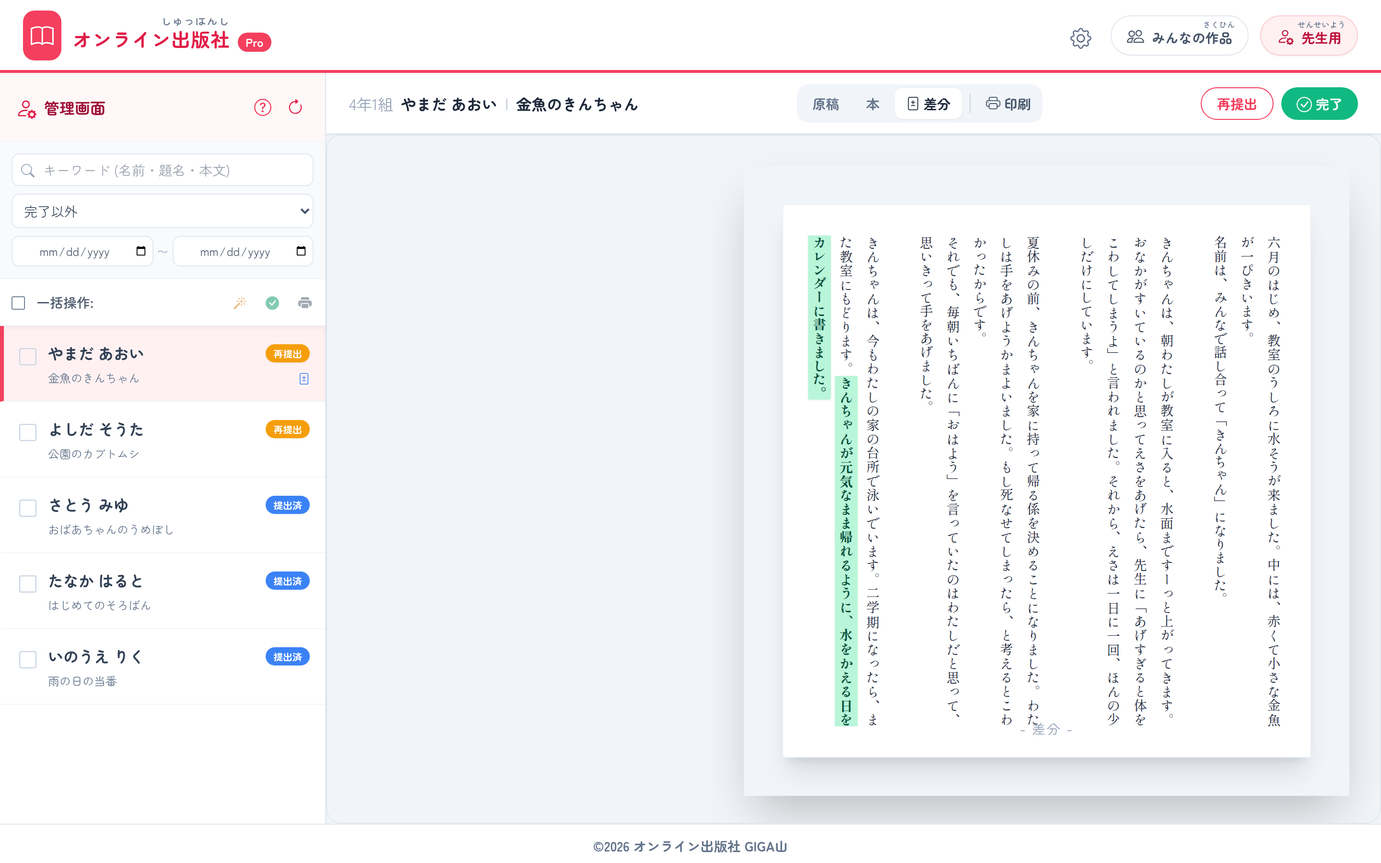
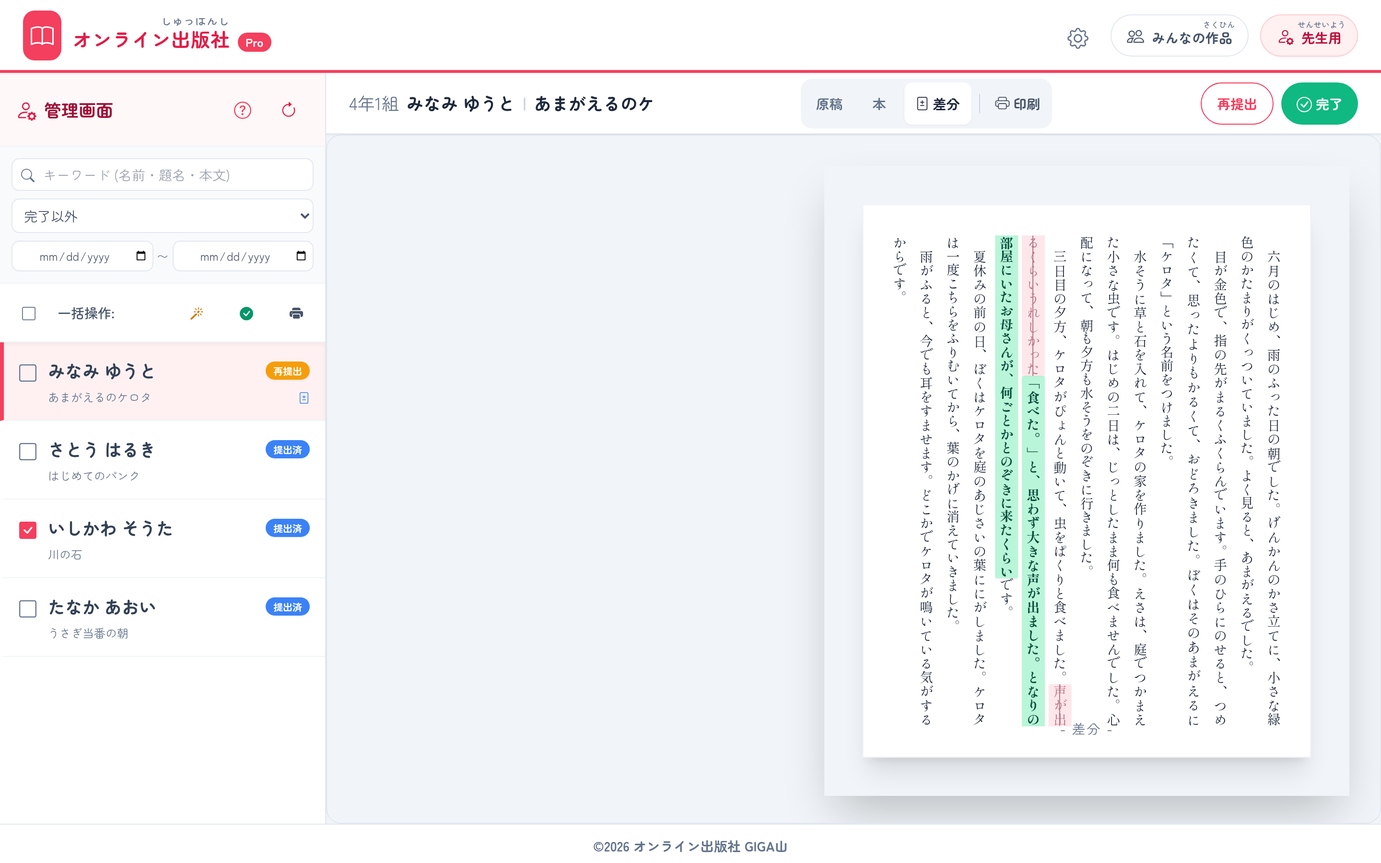
docs(note): note の紹介記事と画面写真を現在の実装に合わせて撮り直す
前回そろえたあとに画面の作りが変わっていた（GIGA Standard v4 対応で
文字サイズ・タップ目標・PWAシェルを入れ替えた）ため、記事と画像を
すべて実機の操作で撮り直し、本文も現在の実装に合わせて書き直した。

■ 画像（24点、すべて実際に操作して撮影。合成・加工なし）
- 児童が書いて提出 → 先生が2か所に赤入れ → 再提出で返却 → 児童が一文を
  書き直し → 先生が差分を見て完了 → 作品だなで読み合う、を一本で通した
- 前回入っていた 25 枚目（オフライン画面）は、通信を切って開き直しても
  保存済みの画面がそのまま出るため、同じ絵になるので落とした

■ 本文
- 差分表示、修正完了、4つのステータス、削除のしかたを追記
- 数字はすべてコードで裏取り（自動保存20秒、挿絵は幅800pxまで縮小、
  切り抜き8種類、ショートカット11個、貼るファイルは code.gs 446行と
  index.html 2,325行 ほか）。出どころは docs/note/README.md に一覧化
- 文体ルールは機械確認済み（太字0、表0、→／：▲▶ すべて0、約7,500字）

■ 入稿メモ
- 撮り直しの手順に、今回踏んだ落とし穴を追記（--no-save はまとめて実行する、
  書体を手もとに置かないと縦書きで文字が重なる、モーダルの裏の原稿用紙に
  当たる、ふりがな入り見出しは素朴な一致では当たらない ほか）

アプリのコード（index.html / code.gs / pwa/）には手を入れていない。

Claude-Session: https://claude.ai/code/session_01CP5rr8CaEPFNJJsQuoL7UZ

diff --git a/docs/note/online-publisher-pro-note-article.md b/docs/note/online-publisher-pro-note-article.md
@@ -1,249 +1,254 @@
-# 教室で使えるかもしれないもの作り #◯ 「書いて、出して、返ってきて、おしまい」にしない。クラスの作文が一冊の本になるアプリ「オンライン出版社 Pro」
+# 教室で使えるかもしれないもの作り #◯ 「赤ペンの束を持ち帰る夜」をなくす。クラスの作文が一冊の本になるアプリ「オンライン出版社 Pro」
 
 ## 🏫 はじめに
 
-作文の時間、こんなふうになっていませんか。
+作文の時間のあと、こんなことになっていませんか。
 
-原稿用紙を配って、書かせて、集める。放課後に赤ペンで直して、次の日に返す。直したものをまた集める。ようやく全員ぶんが終わったころには、子どもたちは次の単元に進んでいて、あの作文がどうなったのかを覚えているのは先生だけ。書いたものは先生しか読んでいません。
+原稿用紙を集めて、放課後に赤ペンで直す。次の日に返して、直したものをまた集める。清書用の紙をもう一度配る。ようやく全員ぶんが終わったころには、子どもたちの気持ちは次の単元に移っていて、あの作文がどうなったのかを覚えているのは先生だけ。しかも書いたものを読んだのは、先生ひとりです。
 
-清書もむずかしいところです。せっかくいい文章が書けても、マス目に写しなおすだけで一時間が消えていきます。挿絵を描かせたいけれど、紙を貼るとかさばるし、印刷にも回せません。
+清書もむずかしいところです。せっかくいい文章が書けても、マス目に写しなおすだけで一時間が消えていきます。絵を描かせたいけれど、貼るとかさばりますし、印刷にも回せません。
 
-「オンライン出版社 Pro」は、そのあたりをまるごと引き受けるつもりで作ったWebアプリです。子どもは端末で書き、画面の中の縦書き原稿用紙にそのまま組まれていきます。先生はその原稿用紙の上を指でなぞって赤を入れ、子どもはその赤を読んで直します。完成した作品は「みんなの作品だな」に本として並び、クラスのだれもが読んで感想を送れます。
+「オンライン出版社 Pro」は、そのあたりをまるごと引き受けるつもりで作ったWebアプリです。子どもたちは端末で書き、打った先から画面の中の縦書き原稿用紙に組まれていきます。先生はその原稿用紙の上を指でなぞって赤を入れ、子どもたちはその赤を読んで直します。仕上がった作品は「みんなの作品だな」に一冊の本として並び、クラスのだれもが読んで感想を送れます。
 
 配布はGitHubからです。
 
 https://github.com/GIGAyama/Online-Publisher-pro
 
-学校のGoogleアカウントがあれば動きます。サーバーの契約もいりませんし、ビルドの作業もありません。2つのファイルをコピーして貼るだけです。くわしくは後半の導入手順に書きました。
+学校のGoogleアカウントがあれば動きます。サーバーを借りる必要も、書き出しの作業もありません。2つのファイルをコピーして貼るだけです。くわしくは後半の導入手順に書きました。
 
-![ホーム画面](images/01-student-home.png)
+![児童モードの初期画面](images/01-student-home.png)
 
 児童モードの初期画面。左が書くところ、右が原稿用紙のプレビューです。
 
 ## 📱 このアプリでできること
 
-画面は3つのモードでできています。子どもが書く「児童モード」、読み合う「みんなの作品だな」、先生が添削する「先生用」。上のバーの色が、オレンジ、緑、赤と変わるので、いまどこにいるかがひと目で分かります。児童モードと作品だなはログインなしで使えて、先生用だけパスワードがかかります。
+画面は3つのモードでできています。子どもたちが書く「児童モード」、読み合う「みんなの作品だな」、先生が添削する「先生用」。上のバーの色がオレンジ、緑、赤と変わるので、いまどこにいるのかがひと目で分かります。児童モードと作品だなはログインなしで使えて、先生用だけパスワードがかかります。
 
-まずは書くところから。だいめい、がくねん・くみ、なまえ、そして本文。打った先から右側の原稿用紙に流れこんでいきます。マス目に文字が入っていくようすが見えるので、あと何行で終わるのかが子どもにも分かります。入力欄の右下には改行を除いた文字数が出ます。四百字詰めであと何マス、という話が、そのままできます。
+まずは書くところから。だいめい、がくねん・くみ、なまえ、そして本文。打った先から右側の原稿用紙に流れこんでいきます。マス目に文字が入っていくようすが見えるので、あと何行で終わるのかが子どもたちにも分かります。入力欄の右下には、改行を除いた文字数が出ます。四百字詰めであと何マス、という話がそのままできます。
 
 ![本文を書いたところ](images/02-student-write.png)
 
-打った文字が右の原稿用紙にそのまま組まれていきます。この時点で356文字です。
+打った文字が右の原稿用紙にそのまま組まれていきます。この時点で400文字です。
 
-原稿用紙は20文字×20行と15文字×16行の2種類から選べます。高学年と低学年で使い分けてください。行の頭に句読点が来てしまったときの処理も、次の行に送る「追い出し」と、マスの外に小さく出す「ぶら下がり」から選べます。ここは先生の指導のしかたに合わせるところなので、決め打ちにしませんでした。設定は端末に残るので、一度選べば次からそのままです。
+原稿用紙は20文字20行と、15文字16行の2種類から選べます。高学年と低学年で使い分けてください。行の頭に句読点が来てしまったときの処理も、次の行に送る「追い出し」と、マスの外に小さく出す「ぶら下がり」から選べます。ここは先生の指導のしかたに合わせるところなので、決め打ちにしませんでした。選んだ設定はその端末の中に残るので、一度選べば次からそのままです。
 
 ![用紙の設定](images/03-paper-settings.png)
 
 歯車のボタンから開く用紙の設定です。
 
-保存ボタンはありません。作らなかった、というほうが正確です。子どもが「保存」を押し忘れて一時間ぶんが消えた、という事故をなくしたかったからです。入力が20秒止まると自動で保存され、タブを閉じたり別のアプリに切り替えたりした瞬間にも保存されます。いまどの状態なのかは本文の下に出ます。編集中、保存中、クラウド保存済。通信が切れているときは端末の中にいったん置いておいて、つながった時点で自動で送ります。
+保存ボタンはありません。作らなかった、というほうが正確です。子どもが押し忘れて一時間ぶんが消えた、という事故をなくしたかったからです。入力が20秒止まると自動で保存され、タブを閉じたり別のアプリに切り替えたりした瞬間にも保存されます。いまどの状態なのかは本文の下に出ます。編集中、保存中、クラウド保存済、そして通信が切れているときと失敗したとき。切れているあいだは端末の中にいったん置いておいて、つながった時点で自動で送ります。
 
-![自動保存の表示](images/07-autosave.png)
+Chromebookは、ほかのタブを開くと使っていないタブを黙って捨ててしまうことがあります。捨てられる直前にも書きかけを退避させているので、そこで消えることもありません。
 
-左下に「クラウド保存済」と出ています。子どもは保存を意識しなくてかまいません。
+![クラウド保存済の表示](images/07-autosave.png)
 
-挿絵も入れられます。撮った写真や描いた絵を選ぶと、端末の中で幅800ピクセルまで小さくしてから送るので、通信が細い教室でも詰まりにくいはずです。何ページ目に置くか、大きさは30%から150%のどのくらいか、切り抜きの形は8種類のどれか。まる、ほしがた、ふわふわ。この形えらびは、正直なところ機能としては要らないものです。それでも入れたのは、自分の作品の見た目を自分で決める時間そのものが、書くことへの気もちを上げてくれると思ったからです。
+本文の下に出る保存の状態。ここが「クラウド保存済」なら、もう手もとを離れています。
+
+挿絵も入れられます。写真でも、お絵かきソフトで描いた絵でもかまいません。置きたいページの番号、大きさ、切り抜きの形を指定します。大きさは30パーセントから150パーセントまで、形はしかく、かどまる、まる、ふわふわ、ひしがた、ほしがた、はっかくけい、チケットの8種類です。送る前に幅800ピクセルまで自動で縮めるので、写真をそのまま選んでも重くなりません。
 
 ![挿絵の設定](images/04-illustration.png)
 
-配置ページ、大きさ、切り抜きの形を挿絵ごとに決められます。
+挿絵の置きかたを決めるところ。形を選ぶと、プレビューにすぐ反映されます。
 
-プレビューには原稿用紙のほかに「本」があります。1ページ目が表紙になり、題名と学年組と名前が縦書きで入ります。2ページ目からが本文で、指定したページの上に挿絵が並びます。挿絵を置いたページは、本文の1行の文字数が自動で少なくなって、絵の下におさまるように組みなおされます。
+プレビューは原稿用紙と本の2種類です。本モードにすると、1ページ目が表紙になり、題名と学年と名前が縦に組まれます。挿絵を置いたページは、絵の下に文章が収まるように1行の文字数が自動で減ります。マス目の中では見えてこなかった「作品らしさ」が、ここで急に立ち上がってきます。
 
-![本のプレビュー](images/05-book-preview.png)
+![本モードのプレビュー](images/05-book-preview.png)
 
-右が表紙、左が挿絵の入った2ページ目です。挿絵が出るのは本モードだけです。
+表紙と、挿絵の入った2ページ目。
 
-印刷はA4横です。原稿用紙を表示しているときは、まん中に綴じ代のある見開きの原稿用紙として出ます。題名とページ番号も入ります。本を表示しているときは、見開き2ページを1枚に並べて出します。学級通信に載せるにも、教室に掲示するにも、そのまま使えます。
+紙で残したいときは印刷です。原稿用紙はA4横に見開きで、まん中に綴じ代が入り、そこに題名とページ番号が縦に入ります。二つ折りにすればそのまま冊子になります。ブラウザによってはマス目や赤線を「背景」とみなして刷ってくれないので、色を必ず刷るように指定してあります。
 
-![印刷の紙面](images/06-print-a4.png)
+![A4横の印刷](images/06-print-a4.png)
 
-原稿用紙表示のまま印刷したところ。中央の帯に題名とページ番号が入ります。
+印刷の紙面。綴じ代に題名とページ番号が入ります。
 
-書き終えたら「提出する」を押します。提出した作品は編集できなくなります。かわりにボタンが「コピーして新しく書く」に変わるので、挿絵ごと複製して書き直すことはできます。前に書いたものを消さずに、二作目として書ける形にしました。
+書き上がったら「提出する」を押します。提出した作品は、先生が返すまで編集できません。書き直したくなったら「コピーして新しく書く」で、元の作品を残したまま新しく書きはじめられます。
 
 ![提出したあと](images/08-submitted.png)
 
-提出すると鍵がかかり、ボタンが「コピーして新しく書く」に変わります。
+提出すると入力欄が閉じ、編集できないことがはっきり分かるようになります。
+
+作品は、下書き、提出済、再提出、完了の4つのどれかの状態にあります。子どもたちが直せるのは下書きと再提出のときだけで、提出済と完了のあいだは手が入りません。完了にできるのは先生だけです。子どもが自分で「これでおしまい」と決められない作りにしたのは、書いたものを先生が必ず一度は読む、という流れを崩したくなかったからです。
 
 ## ✍ 原稿用紙の上に、そのまま赤を入れる
 
 ここがこのアプリでいちばん時間をかけたところです。
 
-先生用のボタンからパスワードを入れると、提出物の一覧が出ます。初回のパスワードは admin です。かならず変えてください。
+先生用のボタンを押すと、パスワードを聞かれます。最初のパスワードは admin で、あとから変えられます。Googleへのログインは要りません。共用のパソコンでも、ここだけ通れば使えます。
 
-![先生用のログイン](images/09-teacher-login.png)
+![先生用ログイン](images/09-teacher-login.png)
 
-先生用だけパスワードがかかります。児童モードとギャラリーはログインなしです。
+先生用ログイン。子どもたちの端末からは、この先には入れません。
 
-一覧には下書き以外の作品が、更新の新しい順に並びます。名前と題名とステータスが見えて、キーワードでも、提出済や再提出といった状態でも、更新日の範囲でも絞りこめます。三十人ぶんが並んでも、まだ見ていない子から順に開いていけます。
+ログインすると、提出物の一覧と、選んだ作品の原稿用紙が並びます。左の一覧には名前と題名と状態が出ます。提出済が青、再提出がオレンジ、完了が緑です。名前でも題名でも本文でも検索できますし、完了以外だけを出す、提出済だけを出すといった絞りこみも5種類から選べます。日づけでも絞れるので、「先週の分だけ」という見かたもできます。
 
-![提出一覧](images/10-teacher-list.png)
+![提出一覧と添削画面](images/10-teacher-list.png)
 
-左が一覧、右が添削画面です。名前・題名・本文のどれでも検索できます。
+左が提出一覧、右が選んだ作品の原稿用紙です。
 
-添削は、原稿用紙の上を直接ドラッグします。指摘したい文字をなぞって指を離すと、コメントを書く欄が開きます。タブレットのときは、文字を長押ししてからなぞってください。短くなぞるとスクロールになります。書いて「追加する」を押すと、その範囲に赤い線が付きます。
+赤を入れるには、原稿用紙の文字をなぞります。パソコンならマウスで、タブレットなら長押ししてから指を滑らせます。手を離すとコメントの入力欄が出るので、そこに書きます。
 
-![コメントを書く](images/11-correction-input.png)
+![添削コメントの入力](images/11-correction-input.png)
 
-なぞって離すと、この欄が開きます。
+なぞった範囲にコメントを書きます。
 
-![赤線の入った原稿](images/12-correction-done.png)
+コメントを追加すると、その範囲に赤い線が引かれます。これは先生の画面だけの話ではありません。同じ場所が、子どもの画面の原稿用紙にも出ます。紙を返して、返ってきて、という往復がなくなります。
 
-「すーっと」と「思いきって手をあげました」の2か所に赤が入りました。
+![赤線が入った原稿](images/12-correction-done.png)
 
-紙の赤ペンとちがうのは、子どもの側でこの赤が読めることです。子どもが赤い印の付いた文字をタップすると、先生のコメントが開きます。読んで直したら「修正完了」を押します。すると、その赤線は子どもの画面から消えます。先生の画面には緑色で残るので、どのコメントが届いたのかが分かります。
+2か所に赤が入りました。ほめるところに赤を入れてもかまいません。
 
-![子どもの画面に届いたコメント](images/18-student-comment.png)
+子どもたちは、赤いところを押すと先生のコメントを読めます。直し終わったら「修正完了」を押すと、その赤線が消えます。どこを直せばいいのかが自分で分かり、直したという手ごたえも残ります。消しゴムで消した跡が残らないのは、少し寂しい気もしますが、書き直しのハードルはずいぶん下がるはずです。
 
-赤い印をタップすると、先生のコメントが開きます。
+![子どもの画面に届いた先生のコメント](images/18-student-comment.png)
 
-赤入れそのものを手伝わせることもできます。AI添削のボタンを押すと、GoogleのAI（Gemini）が誤字脱字や表現の改善点、それに良かったところを、小学生に伝わる言葉で挙げてきます。指摘は本文の該当する場所に、頭に【AI】と付いた赤線として入ります。一覧でチェックを入れれば、選んだ作品をまとめて処理することもできます。
+子どもの画面。赤いところを押すと、先生のコメントが出ます。
 
-これは下書きを作らせているだけだと思ってください。AIの指摘をそのまま子どもに返すつもりはありませんでした。要らないものはクリックして消せますし、言い回しを先生の言葉に書き換えることもできます。三十人ぶんの誤字探しをAIに任せて、先生は「この子に何を伝えるか」に時間を使う。そういう分担のつもりで付けました。使うにはGeminiのキーを登録する必要があります。登録しないかぎりAIには一切つながりません。
+直したあとに先生がいちばん知りたいのは、どこが変わったのかです。「差分」に切り替えると、書き足したところが緑、消したところがうすい赤で出ます。全部を読み直さなくても、直したところだけを見て返事ができます。
 
-![まとめてAI添削](images/13-ai-bulk.png)
+![差分表示](images/14-diff.png)
 
-チェックを入れた作品をまとめて処理できます。件数が多いと数分かかります。
+書き足したところが緑で出ます。長い作文でも、書き出しから終わりまで全部が読めます。
 
-再提出で返した作品が直って戻ってきたとき、どこが変わったのかを探すのはけっこうな手間です。そのための「差分」があります。前回添削したときの本文といまの本文をくらべて、書き足されたところを緑、消えたところを赤の取り消し線で出します。全文を読みなおさなくても、直したところだけが目に飛びこんできます。
+AIに下読みをさせることもできます。GoogleのGeminiに、誤字や表現の直しどころを出させる機能です。使うときだけAIのキーを入れる形にしてあり、入れなければAIはいっさい動きません。出てきた提案は先生の赤と同じ形で原稿用紙に並ぶので、要らないものはその場で消せます。まとめて何人ぶんも流すこともできますが、一度に20件を超えると処理が途中で止まりやすいので、10件ずつに分けるのが安全です。
 
-![差分の表示](images/14-diff.png)
+![まとめてAI添削の確認](images/13-ai-bulk.png)
 
-緑のところが、子どもが書き足した文です。
+チェックを付けた作品をまとめてAIに読ませるところ。実行する前に確認が出ます。
 
-一覧と添削画面のあいだを行ったり来たりする作業なので、キーボードだけでも進められるようにしました。上下キーで子どもを切り替え、Vで表示を切り替え、Cで完了、Rで再提出。はてなキーを押すと、いま使える11個のキーが一覧で出ます。
+一覧と原稿用紙を行ったり来たりするので、キーボードのショートカットも入れました。上下で子どもを切り替え、Cで完了、Rで再提出、Vで表示の切り替え。ぜんぶで11個あります。はてなマークのキーで一覧が出ます。
 
 ![ショートカット一覧](images/15-shortcuts.png)
 
-はてなキーで開きます。入力欄にカーソルがあるときは動きません。
+先生用の画面で使えるショートカットです。
 
 ## 📚 書いた作文が、みんなで読める一冊の本になる
 
-提出済と完了になった作品は、「みんなの作品だな」に本の背表紙のように並びます。感想が付いている作品には、右上に件数のバッジが出ます。
+提出された作品と、完了になった作品は「みんなの作品だな」に並びます。ログインは要りません。背表紙のように立った本が、教室の学級文庫のように並びます。
 
 ![みんなの作品だな](images/19-gallery.png)
 
-提出済と完了の作品が並びます。感想の付いた本にはバッジが出ます。
+提出された作品が本として並びます。
 
-一冊選ぶと、画面いっぱいのリーダーが開きます。縦書きなので右から左へ、矢印キーか画面の矢印、タブレットならスワイプでめくっていきます。挿絵を置いたページでは、絵と文章がいっしょに出ます。書いた本人にとっては、自分の書いたものがちゃんと本の形をしているという、それだけのことがうれしいのではないかと思っています。
+一冊を選ぶと、画面いっぱいのリーダーが開きます。左右のキーでも、指のスワイプでもページがめくれます。縦書きなので、右から左へ。表紙をめくると本文がはじまります。
 
-![ブックリーダー](images/20-reader.png)
+![全画面のブックリーダー](images/20-reader.png)
 
-全画面のリーダー。右から左へめくります。
+全画面のリーダー。右にコメント欄があります。
 
-読んだら感想を送れます。名前と一言を書いて送信するだけです。名前を空けたまま送ると「名無し」になります。書いた子には、先生以外のだれかが読んでくれたという事実が残ります。作文を「先生に出すもの」から「だれかに読んでもらうもの」に変えたかった、というのがこの画面を作った理由です。
+読んだら、その場で感想を送れます。名前を書いて一言。作品には届いた感想の数がバッジで出るので、自分の作品に誰かが何か書いてくれたことが、すぐに分かります。
 
-![感想を送る](images/21-reader-comment.png)
+書いたものに読み手ができる、というのがこの機能の全部です。先生ひとりが読んで返すのと、クラス全員が読めるのとでは、書くときの構えが変わってくるのではないかと思っています。
 
-送った感想はすぐに一覧に出ます。
+![感想を送ったあと](images/21-reader-comment.png)
 
-なお、感想を消す機能はアプリの中にありません。困った投稿があったときは、あとで説明するスプレッドシートの行を消してください。むやみに消せる機能を子どもの画面に置きたくなかったので、こうしています。
+感想を送ると、すぐに右側に並びます。
 
-端末を選ばないのも大事にしたところです。Chromebookでも、タブレットでも、家のスマートフォンでも、画面の大きさに合わせて形が変わります。小さい画面では「かく」と「プレビュー」がタブに分かれて、それぞれ全画面で使えます。
+スマートフォンやタブレットの縦画面でも同じことができます。左右が並ばないぶん、いちばん上の「かく」と「プレビュー」で切り替えて、それぞれを全画面で使います。家に持ち帰った端末でも、続きが書けます。
 
-![スマートフォンで書く](images/22-mobile-write.png)
+![スマートフォンのかく画面](images/22-mobile-write.png)
 
-小さい画面では「かく」と「プレビュー」を切り替えて使います。
+スマートフォンの「かく」。
 
 ![スマートフォンのプレビュー](images/23-mobile-preview.png)
 
-プレビュー側もこのとおり全画面です。
+同じ端末の「プレビュー」。切り替えて使います。
 
 ## ✨ 導入のメリット
 
 三つのいいことが期待できます。
 
-一つ目は、集めて配ってをくり返す時間がなくなることです。子どもが提出したら先生の一覧にすぐ並び、先生が完了にしたら子どもの画面にすぐ届きます。放課後に三十枚の原稿用紙をそろえて、翌朝また配る、という往復がまるごとなくなります。紙が一枚だけ行方不明になって心当たりを探す、あの時間もです。
+一つ目は、赤ペンを持ち帰る夜が減ることです。丸付けそのものが消えるわけではありませんが、集める、配る、また集める、という往復がなくなります。直したところが緑で出るので、二度目からは全文を読み直さずに済みます。空いた時間は、書けずに止まっている子のところへ行く時間にできます。
 
-二つ目は、赤ペンを入れる場所が変わることです。誤字脱字の指摘をAIに下書きさせておけば、先生が向き合うのは「この子はここで何を言いたかったのか」という一点になります。差分表示のおかげで、直ったところを探す手間もかかりません。同じ三十分でも、そこで書ける言葉の中身が変わってくると思います。
+二つ目は、清書に使っていた一時間が、書く時間になることです。マス目に写しなおす作業は、字をていねいに書く練習にはなりますが、文章を良くする時間ではありません。打ち直せば原稿用紙のかたちになるので、その一時間を、もう一度読み返して直す時間に回せます。
 
-三つ目は、書いたものに読み手ができることです。作品だなに並んで、だれかが感想を送ってくれる。それは、先生が百回「上手に書けたね」と言うのとは別の種類の手ごたえだと思います。読まれると分かっていることが次の一枚に向かう力になる、というのは、大人も子どもも同じではないでしょうか。
+三つ目は、書いたものに読み手ができることです。提出した作品はクラスの本だなに並び、だれもが読んで感想を送れます。だれかに読まれると分かっているときの文章は、先生だけに出す文章とは変わってくるのではないかと思います。少なくとも、そうなればいいと思って作りました。
 
 ## 🛠 【管理者向け】導入手順
 
-このアプリはGoogle Apps Scriptの上で動きます。学校のGoogle Workspaceアカウントがあれば、それだけで足ります。ビルドの作業はありません。
+用意するものは、学校のGoogleアカウントがひとつだけです。サーバーの契約も、月々の費用もかかりません。
 
-データの置き場所は、初回に開いたときに自動でできます。作文と感想はスプレッドシート、挿絵の画像はGoogleドライブのフォルダに入ります。どちらもデプロイした先生のマイドライブの中です。手で消してしまっても、次に開いたときに作り直されます。
-
-導入の手順です。
-
-1. GitHubのリポジトリから `code.gs` と `index.html` を開きます。
-2. Google Apps Script で新しいプロジェクトを作ります。
-3. 最初からある「コード.gs」に、`code.gs` の中身をまるごと貼ります。
-4. 左の「＋」からHTMLファイルを作り、名前を `index` にします。そこに `index.html` の中身を貼ります。
-5. 右上の「デプロイ」から「新しいデプロイ」を選び、種類を「ウェブアプリ」にします。実行するユーザーは自分、アクセスできるユーザーは学校の方針に合わせて選びます。
-6. 初回は承認の警告が出ます。「詳細を表示」から進んで許可してください。
-7. 発行されたURLを開き、右上の「先生用」からパスワード `admin` でログインします。
-8. 歯車のボタンを開いて、パスワードを必ず変えます。AI添削を使うなら、ここでGeminiのキーも登録します。
+1. Google Apps Script のサイトを開き、新しいプロジェクトを作ります。
+2. 最初からある「コード.gs」の中身を全部消して、リポジトリの `code.gs` を貼りつけます。
+3. 左の「＋」からHTMLファイルを追加し、名前を index にして、リポジトリの `index.html` を貼りつけます。
+4. 右上の「デプロイ」から「新しいデプロイ」を選び、種類を「ウェブアプリ」にします。
+5. 実行するユーザーを自分にして、アクセスできるユーザーを「全員」または「Googleアカウントを持つ全員」にします。学校の方針に合わせてください。
+6. 初回だけ「このアプリは確認されていません」という警告が出ます。詳細を表示から、自分のアプリなので許可します。
+7. 発行されたURLを開いて、画面が出ることを確かめます。
+8. 「先生用」を押し、admin でログインします。
+9. 歯車のボタンからシステム設定を開き、パスワードを必ず変えます。AI添削を使うなら、ここにAIのキーも入れます。
 
 ![システム設定](images/16-teacher-settings.png)
 
-先生モードで歯車を押すと開きます。この画面は児童モードには出ません。
+先生用の歯車から開くシステム設定。パスワードの変更とAIのキーはここです。
 
-情報担当の先生に確認されることを、先に書いておきます。
+情報担当の先生に聞かれることを、先に書いておきます。
 
-校内のフィルタリングでは、次のアドレスを通す必要があります。画面の見た目と文字の表示に使っているものです。
+校内のフィルタリングで、次のアドレスを通してください。ふさがれていると画面が真っ白になります。撮影のためにこのアプリを動かした環境でも、ここがふさがれていて表示できませんでした。
 
-- script.google.com（アプリ本体）
-- cdn.tailwindcss.com、unpkg.com、cdn.jsdelivr.net、cdnjs.cloudflare.com（画面を組み立てる部品）
-- fonts.googleapis.com、fonts.gstatic.com（丸ゴシックと明朝の書体）
-- lh3.googleusercontent.com（挿絵の表示）
-- generativelanguage.googleapis.com（AI添削を使うときだけ）
+- script.google.com
+- cdn.tailwindcss.com
+- unpkg.com
+- cdn.jsdelivr.net
+- cdnjs.cloudflare.com
+- fonts.googleapis.com
+- fonts.gstatic.com
+- lh3.googleusercontent.com
+- generativelanguage.googleapis.com （AI添削を使うときだけ）
 
-個人情報については、次の3つを押さえておいてください。
+データの置き場所は、手順4で「実行するユーザー」にしたアカウントのマイドライブです。作文はスプレッドシートに、挿絵の画像はドライブのフォルダに入ります。どちらも最初に開いたときに自動で作られるので、事前の準備は要りません。挿絵のフォルダは、アプリの中で画像を表示するために「リンクを知っている人は見られる」設定になります。顔が写った写真を挿絵にするかどうかは、ここを踏まえて決めてください。
 
-まず、児童モードにログインはありません。「開く」で出る一覧には、そのアプリに入っている全員ぶんの作品が並びます。ほかの子の作品を開くこともできます。同じクラスや学年の中で使うことを前提にした作りなので、学年をまたいで一つのアプリを共有するのは避けてください。
+名前を書く欄があります。学級の中だけで使うなら、出席番号や下の名前だけにするという運用もできます。児童モードにログインはないので、「開く」の一覧にはそのアプリに入っている全員の作品が並びます。同じ学級や学年で使うことを前提にした作りです。
 
-次に、挿絵の画像を入れるドライブのフォルダは「リンクを知っている全員が閲覧可」になります。画面に画像を出すためにこうしています。顔の写った写真をアップロードさせるかどうかは、この点をふまえて決めてください。
+作品を消すボタンは、アプリの中にあえて置いていません。子どもが押しまちがえて一時間ぶんを消してしまうことのほうが、こわいと考えたからです。どうしても消したいときは、データが入っているスプレッドシートを開いて、その行の「削除日時」の欄に日づけを入れます。それだけでアプリの画面には出なくなり、中身は残ります。
 
-最後に、先生用のパスワードはGoogle Apps Scriptのプロジェクト設定の中に、そのままの文字で入っています。ログインを忘れたときはそこで確認できますが、児童の目に触れる場所で開かないでください。
+共用の端末で使うときは、用紙の設定と書きかけの下書きがその端末の中に残ることを覚えておいてください。次に使う子の画面に前の子の書きかけが出ることがあります。使いはじめに「新規」を押す、と決めておけば消えます。
 
-なお、パスワードの変更、キーの登録、AI添削、先生用の一覧の取り出しは、いずれもサーバー側でパスワードを確かめてから動きます。子どもの画面からこれらを実行することはできません。
+1クラス40人が同時に使うぶんには問題ありません。提出が一斉に集中すると数秒待つことがありますが、データが壊れることはなく、もう一度押せば保存されます。学年3クラスが同時となると、提出の時間をずらすことをおすすめします。
 
-作品を消す機能はアプリの中にありません。消したい作品があるときは、スプレッドシート「作文データ」のその行の「削除日時」の列に日付を入れてください。どの画面にも出てこなくなります。
+アプリらしく使いたいときのために、ホーム画面に置くための入り口も同梱しています。最初に一度だけURLを入れると、次からはアイコンから開けます。子どもたちに長いURLを毎回入力させずに済みます。
 
-もう一つ、アプリのように起動したい場合の話です。リポジトリの `pwa` フォルダを GitHub Pages などに置くと、アプリのURLを包んで全画面で開くだけの入口ができます。初回にアプリのURLを一度入れると、次からはアイコンから直接起動できます。先生が `?app=` の形でURLを付けたリンクを配れば、子どもの入力もいりません。
+![ホーム画面に置くための入り口](images/24-pwa.png)
 
-![PWAシェル](images/24-pwa.png)
-
-最初の一回だけアプリのURLを入れる画面です。
+最初の一回だけURLを入れる画面。あとはアイコンから開きます。
 
 ## 📖 【利用者向け】使い方のガイド
 
-子どもに配る手順です。
+子どもたちに配る手順です。
 
 1. 先生から教えてもらったURLを開きます。
 2. 「だいめい」「がくねん・くみ」「なまえ」を入れます。
-3. 大きな枠に本文を書きます。右の原稿用紙にすぐ出てきます。
-4. 絵を入れるときは「挿絵」を開き、「画像を選択して追加」から選びます。何ページ目に置くか、大きさ、形を決めます。
-5. 右上の「本」を押すと、本の形で見られます。
+3. 大きな欄に本文を書きます。右の原稿用紙に、打った文字がそのまま出ます。
+4. 絵を入れるときは「挿絵」を押して、画像を選び、置きたいページの番号を入れます。
+5. 保存は押さなくてかまいません。手が止まると自動で保存されます。
 6. 書けたら「提出する」を押します。
-7. 先生が赤を入れて返してくれたら、赤い印の文字をタップしてコメントを読みます。直したら「修正完了」を押します。
-8. 読み合うときは、上の「みんなの作品」を押して、読みたい本を選びます。読んだら感想を送りましょう。
+7. 先生から赤が入ったら、赤いところを押してコメントを読みます。
+8. 直したら「修正完了」を押して、赤線を消します。
+9. ほかの人の作品は「みんなの作品」から読めます。感想も送れます。
 
-![作品を開く](images/17-open-modal.png)
+続きを書くときは「開く」を押して、自分の作品を選びます。前に書いたものがそのまま出てきます。
 
-「開く」を押すと、保存されている作品から選べます。自分の名前を目印に探してください。
+![保存した作品を開く](images/17-open-modal.png)
+
+「開く」の一覧。状態と、最後に保存した時刻が出ます。
 
 先生の手順です。
 
-1. 右上の「先生用」からパスワードを入れてログインします。
-2. 左の一覧から作品を選びます。まだ見ていない子は、絞りこみを「提出済」にすると探しやすくなります。
-3. 直したいところを原稿用紙の上でドラッグして、コメントを書き、「追加する」を押します。タブレットでは長押ししてからなぞります。
-4. 誤字脱字を先にAIに拾わせたいときは「AI添削」を押します。要らない指摘はクリックして消します。
-5. 書き直させたいときは「再提出」、これでよければ「完了」を押します。
-6. 戻ってきた作品は「差分」を開くと、直したところが緑で出ます。
-7. まとめて処理したいときは、一覧のチェックを入れてから上のボタンを押します。まとめてAI添削、まとめて完了、まとめて印刷ができます。
+1. 右上の「先生用」を押し、パスワードを入れます。
+2. 左の一覧から子どもを選びます。上下のキーでも切り替えられます。
+3. 原稿用紙の文字をなぞって、コメントを書きます。
+4. 直してほしいときは「再提出」を、これで仕上がりなら「完了」を押します。
+5. 直ってきた作品は「差分」に切り替えると、変わったところだけが色で出ます。
+6. まとめて印刷したいときは、一覧のチェックを付けてから印刷のボタンを押します。
 
 ## 📝 まとめ
 
-このアプリで短くなるのは、集めて、配って、また集める時間です。丸付けや添削そのものを機械に任せたかったわけではありません。
+このアプリで消えるのは、赤ペンを持ち帰る夜と、清書に使っていた一時間です。作文を教える仕事そのものが軽くなるわけではありません。どこをどう直すと良くなるのかを見つけて、その子に伝わることばで返す。そこはやはり先生の仕事です。
 
-浮いた時間で何をするかは、たぶん先生ごとにちがいます。私は、一人の子の原稿用紙の前でもう少し長く止まっていられたらいいと思って作りました。「ここ、どうして手をあげようと思ったの」と聞ける時間が、一日にひとつでも増えたら十分です。効率化そのものが目的ではなくて、子どもと向き合う時間をどこかから作るための道具だと思っています。
+ただ、集める、配る、また集める、という往復に取られていた時間は返ってきます。そのぶんを、書けずに止まっている子のとなりに座る時間に使えたら、と思ってこれを作りました。
 
-うまくいくかどうかは、正直なところ使ってみないと分かりません。それでも、作文が先生と子どもの一対一のやりとりで閉じてしまうのは、もったいないとずっと思っていました。書いたものが本の形になって、クラスのだれかが読んで、感想が返ってくる。その一往復が起きたらいいなと思って、この形にしました。
+そして、書いたものが本になって並び、だれかが読んで感想を送ってくれる。それを見た子が、次はもう少し書いてみようと思う。そういうことが起きたらうれしいです。
 
-もし合いそうだと思われたら、まずは一つの単元だけ、一クラスだけで試してみてください。合わなければやめればいいですし、ここが使いにくいという声はいつでも聞かせてください。
+うまくいくかどうかは、正直なところ、やってみないと分かりません。それでも、試してみる価値はあると思っています。
 
 一歩踏み出そうとする先生を、私はいつでも全力で応援しています。
